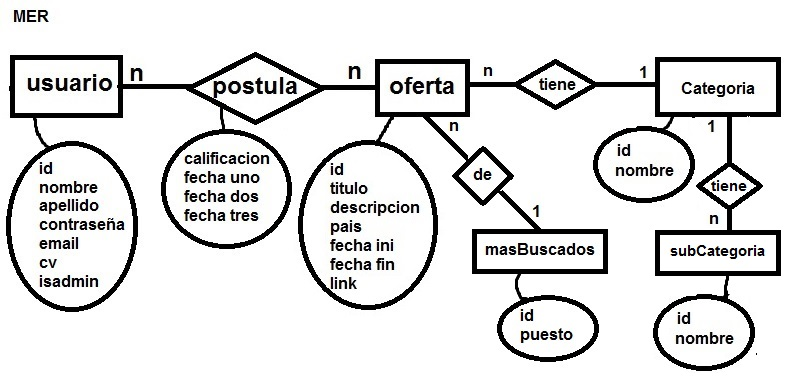
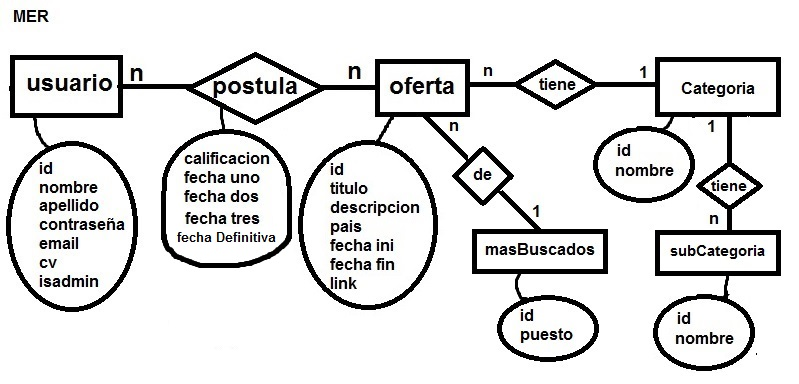
pronto entrevistas

Changed region(s): [[0.1802, 0.5312, 0.3905, 0.7188]]

diff --git a/UruguayJob/templates/entrevistas.html b/UruguayJob/templates/entrevistas.html
@@ -33,44 +33,58 @@
 {% load static %}
 <div class="separador"></div>
 
-<div class="row row-ofertas">
+<div class="row " style="min-height: 400px;">
 	<div class="col-md-1 ">
 	</div>
 
-	<div class="col-md-10 lista-ofertas">
-		<h3 class="mb-5 text-primary">Entrevistas Pendientes</h3>
+	<div class="col-md-10 ">
+		<h3 class="mb-2 text-primary">Entrevistas Pendientes</h3>
 		<div class="list-group">
 
 			{% for oferta in Ofertas %}
 			<div class="list-group-item list-group-item-action">
 				<div class="row">
 					<div class="col-12 col-md-6">
-						<h5 class="mb-1">{{ o.titulo }}</h5>
+						<h5 class="mb-1">{{ oferta.titulo }}</h5>
 						<p class="mb-1">Buenos dias estimado, le solusitamos su presencia en Direccion, entre
 							los dias
 							{{ oferta.fecha_inicio }}
 							y {{ oferta.fecha_final }} a las 9:00 hrs.
 						</p>
+						<form class="m-1 p-1" action="{% url 'verFechasDeEntrevista' %}" method="post">
+							{% csrf_token %}
+							<button type="submit" class="my-2 btn btn-success" name="idO" value="{{ oferta.id_oferta }}">
+								Ver Fechas
+							</button>
+						</form>
 					</div>
 					<div class="col-12 col-md-6">
-						<form>
+						<form action="{% url 'definirFechaEntrevista' %}" method="post">
+							{% csrf_token %}
 							<div class="form-group">
 								<label for="exampleFormControlSelect1">Porfavor seleccioe una fecha:</label>
-								<select class="form-control" id="exampleFormControlSelect1">
-									<option>10/09/2020</option>
-									<option>12/09/2020</option>
-									<option>13/09/2020</option>
+								<h4>{{ mensaje }}</h4>
+								<select class="form-control" name="fechaDef" id="exampleFormControlSelect1">
+									{% for f in fechas %}
+									<!--<option>2020-09-05</option>-->
+									<option>{{ f|date:"c"}}</option>
+									{% endfor %}
+									<option></option>
 								</select>
 
-								<button type="submit" class="my-2 btn btn-success">
-									Enviar
+								<button type="submit" class="my-2 btn btn-success" name="idO" value="{{ oferta.id_oferta }}">
+									Definir
 								</button>
 							</div>
 						</form>
 					</div>
 				</div>
 			</div>
+			{% empty %}
+			<br>
+			<h4>No tiene entrevistas pendientes.</h4>
 			{% endfor %}
+			<br><br>
 
 		</div>
 

diff --git a/UruguayJob/apps/Usuario/views.py b/UruguayJob/apps/Usuario/views.py
@@ -80,10 +80,13 @@ def cargarUruguayConcursaJson(request):
         o.save()
 
     #lo siguiente puede que no valla, vos ves
+    request.session.flush()
     context = {
-        'userNombre': "cargarUC"
+        'Ofertas': LoMasReciente(request),
+        'OfertasRec': LoMasRecienteRec(request),
+        'Categorias':CargarCategorias(request)
     }
-    return render(request, 'hUsuario.html', context)
+    return render(request, 'hInvitado.html', context)
 
 def updateFoto(request):
     print("hola")
@@ -322,13 +325,92 @@ def Entrevistar(request):
     }
     return render(request, 'entrevistar.html',context)
 
-def ofertasALasQueMePostule(request):
-    Ofertas = filtrarOfertas(request)
-    return Ofertas
+def verFechasDeEntrevista(request):
+    if request.method != 'POST':
+        request.session.flush()
+        return render(request, 'iniciarSesion.html')
+
+    idOfer = request.POST['idO']
+    idUsu = request.session['id_usuario']
+    postu = Postulacion.objects.get(id_oferta=idOfer, id_usuario=idUsu)
+
+    fechas=[]
+    fechas.append(postu.fecha_uno)
+    fechas.append(postu.fecha_dos)
+    fechas.append(postu.fecha_tres)
+
+    postulaciones = Postulacion.objects.filter(id_usuario = request.session['id_usuario'])
+
+    ret=[]
+    for o in postulaciones:
+        if o.fecha_uno is not None and o.fecha_Definitiva is None:
+            ret.append(o.id_oferta)
+    
+    res=[]
+    for n in ret:
+        of= Oferta.objects.get(id_oferta=n.id_oferta)
+        res.append(of)
+
+    context = {
+        'Ofertas': res,
+        'fechas': fechas
+    }
+    return render(request, 'entrevistas.html', context)
+
+def definirFechaEntrevista(request):
+    if request.method != 'POST':
+        request.session.flush()
+        return render(request, 'iniciarSesion.html')
+
+    definitiva = request.POST['fechaDef']
+
+    idUsu = request.session['id_usuario']
+    idOfer = request.POST['idO']
+    
+    if definitiva!="":
+        postu = Postulacion.objects.get(id_oferta=idOfer, id_usuario=idUsu)
+        postu.fecha_Definitiva=definitiva
+        postu.save()
+        mensaje =""
+        
+    mensaje="Seleccione una fecha"
+
+    print("-------------")
+    print(definitiva)
+
+    postulaciones = Postulacion.objects.filter(id_usuario = request.session['id_usuario'])
+
+    ret=[]
+    for o in postulaciones:
+        if o.fecha_uno is not None and o.fecha_Definitiva is None:
+            ret.append(o.id_oferta)
+    
+    res=[]
+    for n in ret:
+        of= Oferta.objects.get(id_oferta=n.id_oferta)
+        res.append(of)
+
+    context = {
+        'Ofertas': res,
+        'mensaje':mensaje
+    }
+    return render(request, 'entrevistas.html', context)
 
 def Entrevistas(request):
+    postulaciones = Postulacion.objects.filter(id_usuario = request.session['id_usuario'])
+
+    ret=[]
+    for o in postulaciones:
+        if o.fecha_uno is not None and o.fecha_Definitiva is None:
+            ret.append(o.id_oferta)
+    
+    res=[]
+    for n in ret:
+        of= Oferta.objects.get(id_oferta=n.id_oferta)
+        res.append(of)
+
     context = {
-        'Ofertas': ofertasALasQueMePostule(request)
+        'Ofertas': res
     }
     return render(request, 'entrevistas.html', context)
 

diff --git a/UruguayJob/apps/Usuario/migrations/0001_initial.py b/UruguayJob/apps/Usuario/migrations/0001_initial.py
@@ -1,4 +1,4 @@
-# Generated by Django 3.1.1 on 2020-10-06 04:12
+# Generated by Django 3.1.1 on 2020-10-07 10:31
 
 from django.db import migrations, models
 import django.db.models.deletion
@@ -77,6 +77,7 @@ class Migration(migrations.Migration):
                 ('fecha_uno', models.DateField(blank=True, null=True, verbose_name='fecha uno')),
                 ('fecha_dos', models.DateField(blank=True, null=True, verbose_name='fecha dos')),
                 ('fecha_tres', models.DateField(blank=True, null=True, verbose_name='fecha tres')),
+                ('fecha_Definitiva', models.DateField(blank=True, null=True, verbose_name='Definitiva')),
                 ('id_oferta', models.ForeignKey(on_delete=django.db.models.deletion.CASCADE, to='Usuario.oferta')),
                 ('id_usuario', models.ForeignKey(on_delete=django.db.models.deletion.CASCADE, to='Usuario.usuario')),
             ],

diff --git a/UruguayJob/apps/Usuario/urls.py b/UruguayJob/apps/Usuario/urls.py
@@ -23,6 +23,7 @@ urlpatterns = [
     path('postularme/', views.postularme, name='postularme'),
     path('postularmeBusquedas/', views.postularmeBusquedas, name='postularmeBusquedas'),
     path('mostrarPostulantes/', views.mostrarPostulantes, name='mostrarPostulantes'),
-    path('fijarFechaEntrevista/', views.fijarFechaEntrevista, name='fijarFechaEntrevista')
-
+    path('fijarFechaEntrevista/', views.fijarFechaEntrevista, name='fijarFechaEntrevista'),
+    path('definirFechaEntrevista/', views.definirFechaEntrevista, name='definirFechaEntrevista'),
+    path('verFechasDeEntrevista/', views.verFechasDeEntrevista, name='verFechasDeEntrevista')
 ]

diff --git a/UruguayJob/apps/Usuario/models.py b/UruguayJob/apps/Usuario/models.py
@@ -36,6 +36,7 @@ class Postulacion(models.Model):
     fecha_uno = models.DateField('fecha uno',blank = True, null = True)
     fecha_dos = models.DateField('fecha dos',blank = True, null = True)
     fecha_tres = models.DateField('fecha tres',blank = True, null = True)
+    fecha_Definitiva = models.DateField('Definitiva',blank = True, null = True)
 
 class Categoria(models.Model):
     id =  models.AutoField(primary_key = True)
